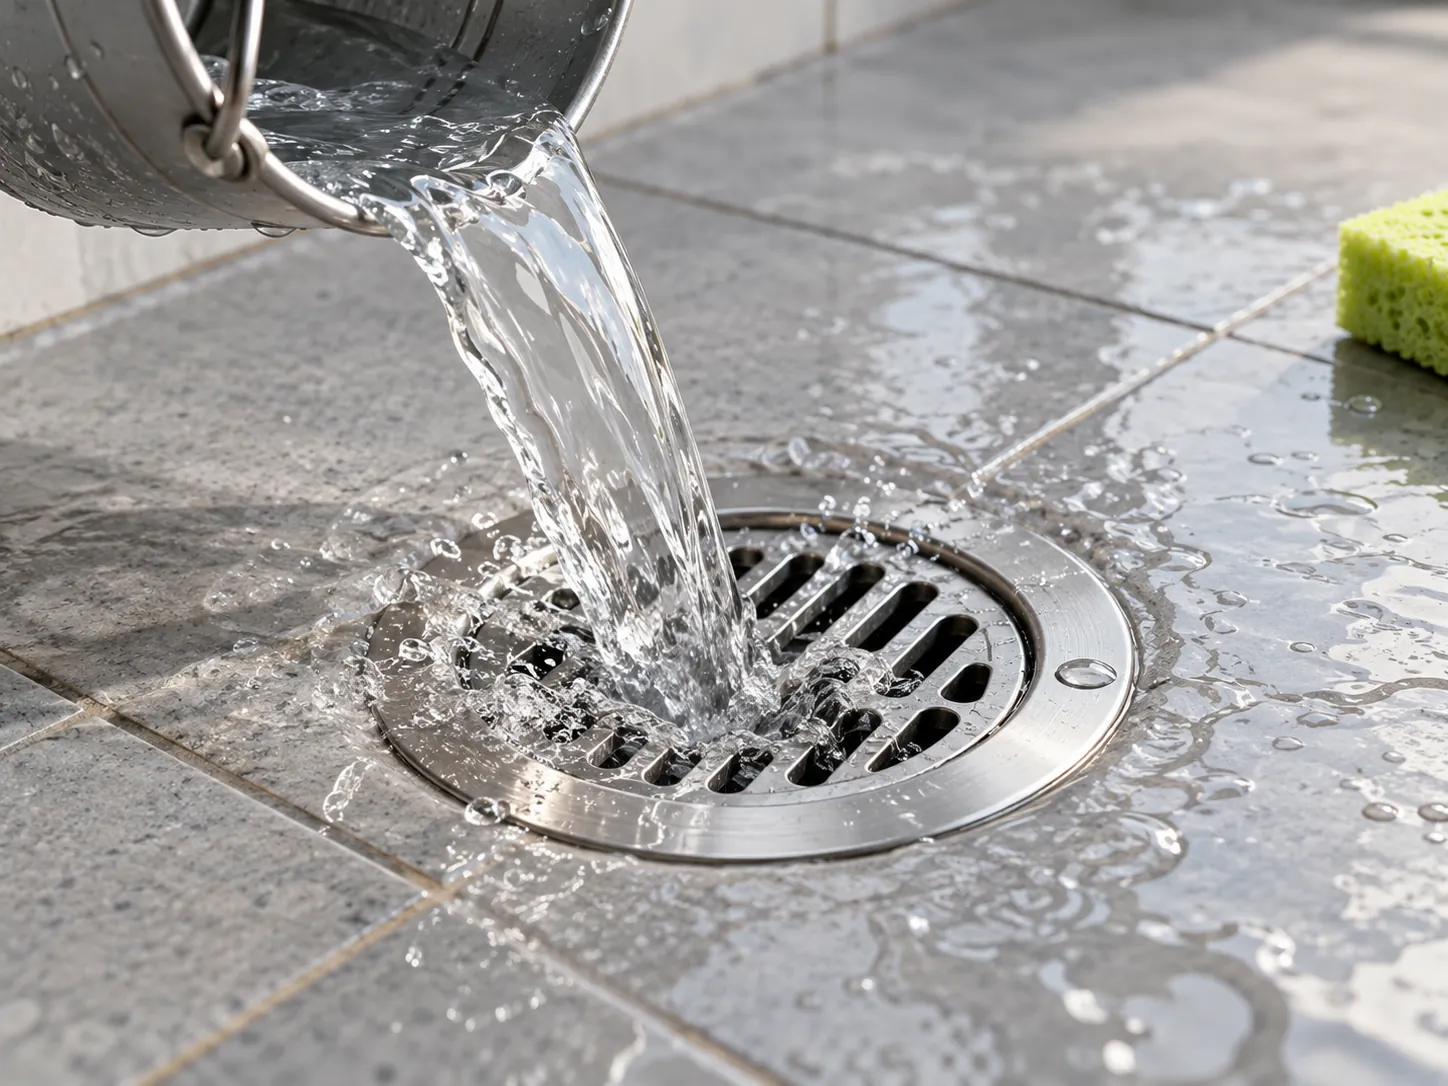
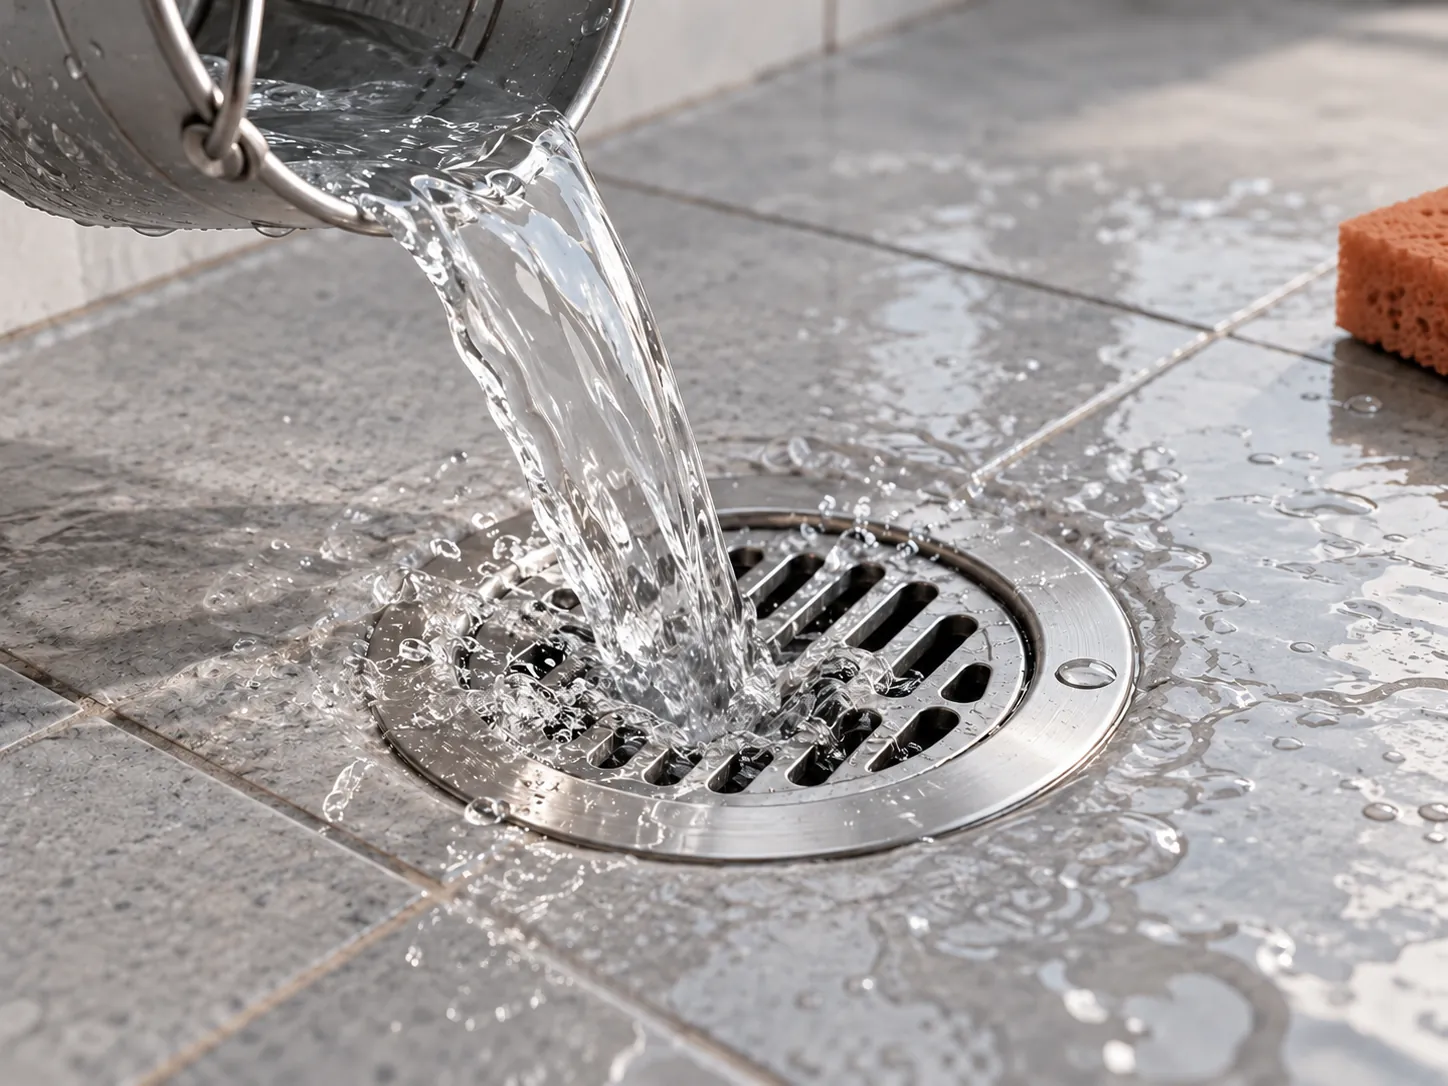
Фото: терракотовый акцент вместо лаймового
12 кадров (11 запахов и «Как мы работаем») перекрашены через Codex
по старым снимкам: композиция та же, лаймовые губки, салфетка, прищепки
и мелочи стали терракотовыми. Промпты в images.js — под терракоту.

diff --git a/src/images.js b/src/images.js
@@ -1,7 +1,7 @@
 /* Слоты картинок Aromé. Стиль — светлая документальная съёмка: реальные помещения, дневной свет,
-   спокойные тёплые серые тона и один акцент лаймового цвета (#D4F55B) в кадре, если уместно. */
+   спокойные тёплые серые тона и один небольшой терракотовый акцент (#BF541B, цвет шапки) в кадре, если уместно. */
 const DOC = 'Bright, clean documentary photograph of a real commercial interior in Astana, Kazakhstan. Natural daylight, soft shadows, neutral warm-grey and white tones, realistic materials, slightly desaturated, shot on a 35mm lens at eye level, calm and honest, like a photo from a facility inspection report but beautiful. No people\'s faces, no text, no signs with words, no logos, no watermarks.';
-const DETAIL = 'Close-up detail photograph, bright natural daylight, clean light-grey background, realistic textures, shallow depth of field, calm neutral palette with a tiny lime-green (#D4F55B) accent object somewhere in the frame. No text, no logos, no faces.';
+const DETAIL = 'Close-up detail photograph, bright natural daylight, clean light-grey background, realistic textures, shallow depth of field, calm neutral palette with one tiny muted terracotta (#BF541B, burnt orange clay colour) accent object somewhere in the frame. No text, no logos, no faces.';
 const place = what => ({ w: 4, h: 3, prio: 1, prompt: `${DOC}\nScene: ${what}. Leave some calm empty space at the top of the frame. Aspect ratio 4:3.` });
 const odor = what => ({ w: 4, h: 3, prio: 2, prompt: `${DETAIL}\nSubject: ${what}. Aspect ratio 4:3.` });
 
@@ -23,7 +23,7 @@ module.exports = {
   'place-ofis': { title: 'Офис', alt: 'Open space офиса с кухонной зоной', where: '/pomeshcheniya/ofis/', ...place('a light open-space office with desks and a small kitchen corner with a microwave and a coffee machine in the background') },
   'place-gostinica': { title: 'Гостиница и хостел', alt: 'Коридор гостиницы с ковровым покрытием', where: '/pomeshcheniya/gostinica/', ...place('a quiet hotel corridor with carpet, room doors on both sides and warm wall lamps, perspective view') },
   'odor-kanalizacii': { title: 'Запах канализации', alt: 'Трап в полу и вода, которую проливают в него', where: '/zapahi/kanalizacii/', ...odor('water being poured from a small bucket into a stainless steel floor drain on grey tiles') },
-  'odor-v-tualete': { title: 'Запах в туалете', alt: 'Белый писсуар и чистая плитка', where: '/zapahi/v-tualete/', ...odor('a clean white urinal on light-grey tiles with fresh grout lines, a lime-green cleaning cloth folded on the side') },
+  'odor-v-tualete': { title: 'Запах в туалете', alt: 'Белый писсуар и чистая плитка', where: '/zapahi/v-tualete/', ...odor('a clean white urinal on light-grey tiles with fresh grout lines, a terracotta-coloured cleaning cloth folded on the side') },
   'odor-kuhni': { title: 'Запах кухни', alt: 'Вытяжной зонт и пар над плитой на профессиональной кухне', where: '/zapahi/kuhni/', ...odor('a stainless steel extractor hood above a professional stove with soft steam rising into it') },
   'odor-tabaka': { title: 'Запах табака', alt: 'Шторы и кресло в номере, луч света', where: '/zapahi/tabaka/', ...odor('linen curtains and an armchair in a hotel room, a beam of sunlight with a faint haze in the air') },
   'odor-syrosti': { title: 'Запах сырости', alt: 'Гигрометр у стены в цокольном помещении', where: '/zapahi/syrosti/', ...odor('a small digital hygrometer on a white painted wall near the floor of a basement room, light from a small window') },

diff --git a/IMAGES.md b/IMAGES.md
@@ -45,7 +45,7 @@ Scene: a technician's hand in a dark-grey work glove holding a small flashlight,
 - Alt: Блокнот с чек-листом обхода помещения и гигрометр на стойке
 
 ```text
-Close-up detail photograph, bright natural daylight, clean light-grey background, realistic textures, shallow depth of field, calm neutral palette with a tiny lime-green (#D4F55B) accent object somewhere in the frame. No text, no logos, no faces.
+Close-up detail photograph, bright natural daylight, clean light-grey background, realistic textures, shallow depth of field, calm neutral palette with one tiny muted terracotta (#BF541B, burnt orange clay colour) accent object somewhere in the frame. No text, no logos, no faces.
 Subject: a clipboard with a printed inspection checklist (lines and tick boxes only, no readable words), a small digital hygrometer and a pen on a light wooden reception counter of a cafe, blurred interior behind. Aspect ratio 3:2.
 ```
 
@@ -155,7 +155,7 @@ Scene: a quiet hotel corridor with carpet, room doors on both sides and warm wal
 - Alt: Трап в полу и вода, которую проливают в него
 
 ```text
-Close-up detail photograph, bright natural daylight, clean light-grey background, realistic textures, shallow depth of field, calm neutral palette with a tiny lime-green (#D4F55B) accent object somewhere in the frame. No text, no logos, no faces.
+Close-up detail photograph, bright natural daylight, clean light-grey background, realistic textures, shallow depth of field, calm neutral palette with one tiny muted terracotta (#BF541B, burnt orange clay colour) accent object somewhere in the frame. No text, no logos, no faces.
 Subject: water being poured from a small bucket into a stainless steel floor drain on grey tiles. Aspect ratio 4:3.
 ```
 
@@ -166,8 +166,8 @@ Subject: water being poured from a small bucket into a stainless steel floor dra
 - Alt: Белый писсуар и чистая плитка
 
 ```text
-Close-up detail photograph, bright natural daylight, clean light-grey background, realistic textures, shallow depth of field, calm neutral palette with a tiny lime-green (#D4F55B) accent object somewhere in the frame. No text, no logos, no faces.
-Subject: a clean white urinal on light-grey tiles with fresh grout lines, a lime-green cleaning cloth folded on the side. Aspect ratio 4:3.
+Close-up detail photograph, bright natural daylight, clean light-grey background, realistic textures, shallow depth of field, calm neutral palette with one tiny muted terracotta (#BF541B, burnt orange clay colour) accent object somewhere in the frame. No text, no logos, no faces.
+Subject: a clean white urinal on light-grey tiles with fresh grout lines, a terracotta-coloured cleaning cloth folded on the side. Aspect ratio 4:3.
 ```
 
 ## ✅ `odor-kuhni` — Запах кухни
@@ -177,7 +177,7 @@ Subject: a clean white urinal on light-grey tiles with fresh grout lines, a lime
 - Alt: Вытяжной зонт и пар над плитой на профессиональной кухне
 
 ```text
-Close-up detail photograph, bright natural daylight, clean light-grey background, realistic textures, shallow depth of field, calm neutral palette with a tiny lime-green (#D4F55B) accent object somewhere in the frame. No text, no logos, no faces.
+Close-up detail photograph, bright natural daylight, clean light-grey background, realistic textures, shallow depth of field, calm neutral palette with one tiny muted terracotta (#BF541B, burnt orange clay colour) accent object somewhere in the frame. No text, no logos, no faces.
 Subject: a stainless steel extractor hood above a professional stove with soft steam rising into it. Aspect ratio 4:3.
 ```
 
@@ -188,7 +188,7 @@ Subject: a stainless steel extractor hood above a professional stove with soft s
 - Alt: Шторы и кресло в номере, луч света
 
 ```text
-Close-up detail photograph, bright natural daylight, clean light-grey background, realistic textures, shallow depth of field, calm neutral palette with a tiny lime-green (#D4F55B) accent object somewhere in the frame. No text, no logos, no faces.
+Close-up detail photograph, bright natural daylight, clean light-grey background, realistic textures, shallow depth of field, calm neutral palette with one tiny muted terracotta (#BF541B, burnt orange clay colour) accent object somewhere in the frame. No text, no logos, no faces.
 Subject: linen curtains and an armchair in a hotel room, a beam of sunlight with a faint haze in the air. Aspect ratio 4:3.
 ```
 
@@ -199,7 +199,7 @@ Subject: linen curtains and an armchair in a hotel room, a beam of sunlight with
 - Alt: Гигрометр у стены в цокольном помещении
 
 ```text
-Close-up detail photograph, bright natural daylight, clean light-grey background, realistic textures, shallow depth of field, calm neutral palette with a tiny lime-green (#D4F55B) accent object somewhere in the frame. No text, no logos, no faces.
+Close-up detail photograph, bright natural daylight, clean light-grey background, realistic textures, shallow depth of field, calm neutral palette with one tiny muted terracotta (#BF541B, burnt orange clay colour) accent object somewhere in the frame. No text, no logos, no faces.
 Subject: a small digital hygrometer on a white painted wall near the floor of a basement room, light from a small window. Aspect ratio 4:3.
 ```
 
@@ -210,7 +210,7 @@ Subject: a small digital hygrometer on a white painted wall near the floor of a 
 - Alt: Свёрнутое полотенце и коврик для тренировки
 
 ```text
-Close-up detail photograph, bright natural daylight, clean light-grey background, realistic textures, shallow depth of field, calm neutral palette with a tiny lime-green (#D4F55B) accent object somewhere in the frame. No text, no logos, no faces.
+Close-up detail photograph, bright natural daylight, clean light-grey background, realistic textures, shallow depth of field, calm neutral palette with one tiny muted terracotta (#BF541B, burnt orange clay colour) accent object somewhere in the frame. No text, no logos, no faces.
 Subject: a rolled white towel, a grey training mat and a water bottle on a gym bench. Aspect ratio 4:3.
 ```
 
@@ -221,7 +221,7 @@ Subject: a rolled white towel, a grey training mat and a water bottle on a gym b
 - Alt: Закрытый контейнер для мусора в чистой камере
 
 ```text
-Close-up detail photograph, bright natural daylight, clean light-grey background, realistic textures, shallow depth of field, calm neutral palette with a tiny lime-green (#D4F55B) accent object somewhere in the frame. No text, no logos, no faces.
+Close-up detail photograph, bright natural daylight, clean light-grey background, realistic textures, shallow depth of field, calm neutral palette with one tiny muted terracotta (#BF541B, burnt orange clay colour) accent object somewhere in the frame. No text, no logos, no faces.
 Subject: a clean closed grey waste container in a freshly washed tiled waste room. Aspect ratio 4:3.
 ```
 
@@ -232,7 +232,7 @@ Subject: a clean closed grey waste container in a freshly washed tiled waste roo
 - Alt: Щётка для груминга на светлом столе
 
 ```text
-Close-up detail photograph, bright natural daylight, clean light-grey background, realistic textures, shallow depth of field, calm neutral palette with a tiny lime-green (#D4F55B) accent object somewhere in the frame. No text, no logos, no faces.
+Close-up detail photograph, bright natural daylight, clean light-grey background, realistic textures, shallow depth of field, calm neutral palette with one tiny muted terracotta (#BF541B, burnt orange clay colour) accent object somewhere in the frame. No text, no logos, no faces.
 Subject: a grooming brush and a folded towel on a light grooming table, soft daylight. Aspect ratio 4:3.
 ```
 
@@ -243,7 +243,7 @@ Subject: a grooming brush and a folded towel on a light grooming table, soft day
 - Alt: Маникюрный стол со встроенной вытяжкой
 
 ```text
-Close-up detail photograph, bright natural daylight, clean light-grey background, realistic textures, shallow depth of field, calm neutral palette with a tiny lime-green (#D4F55B) accent object somewhere in the frame. No text, no logos, no faces.
+Close-up detail photograph, bright natural daylight, clean light-grey background, realistic textures, shallow depth of field, calm neutral palette with one tiny muted terracotta (#BF541B, burnt orange clay colour) accent object somewhere in the frame. No text, no logos, no faces.
 Subject: a manicure table with a built-in extractor grille, a few closed nail polish bottles. Aspect ratio 4:3.
 ```
 
@@ -254,7 +254,7 @@ Subject: a manicure table with a built-in extractor grille, a few closed nail po
 - Alt: Валик и банка краски у открытого окна
 
 ```text
-Close-up detail photograph, bright natural daylight, clean light-grey background, realistic textures, shallow depth of field, calm neutral palette with a tiny lime-green (#D4F55B) accent object somewhere in the frame. No text, no logos, no faces.
+Close-up detail photograph, bright natural daylight, clean light-grey background, realistic textures, shallow depth of field, calm neutral palette with one tiny muted terracotta (#BF541B, burnt orange clay colour) accent object somewhere in the frame. No text, no logos, no faces.
 Subject: a paint roller and a closed paint can on the floor near a wide open window, fresh white walls. Aspect ratio 4:3.
 ```
 
@@ -265,7 +265,7 @@ Subject: a paint roller and a closed paint can on the floor near a wide open win
 - Alt: Светлый коридор клиники и зелёное растение
 
 ```text
-Close-up detail photograph, bright natural daylight, clean light-grey background, realistic textures, shallow depth of field, calm neutral palette with a tiny lime-green (#D4F55B) accent object somewhere in the frame. No text, no logos, no faces.
+Close-up detail photograph, bright natural daylight, clean light-grey background, realistic textures, shallow depth of field, calm neutral palette with one tiny muted terracotta (#BF541B, burnt orange clay colour) accent object somewhere in the frame. No text, no logos, no faces.
 Subject: a bright clinic corridor detail with a soft armchair and a green plant, clean white walls. Aspect ratio 4:3.
 ```
 
